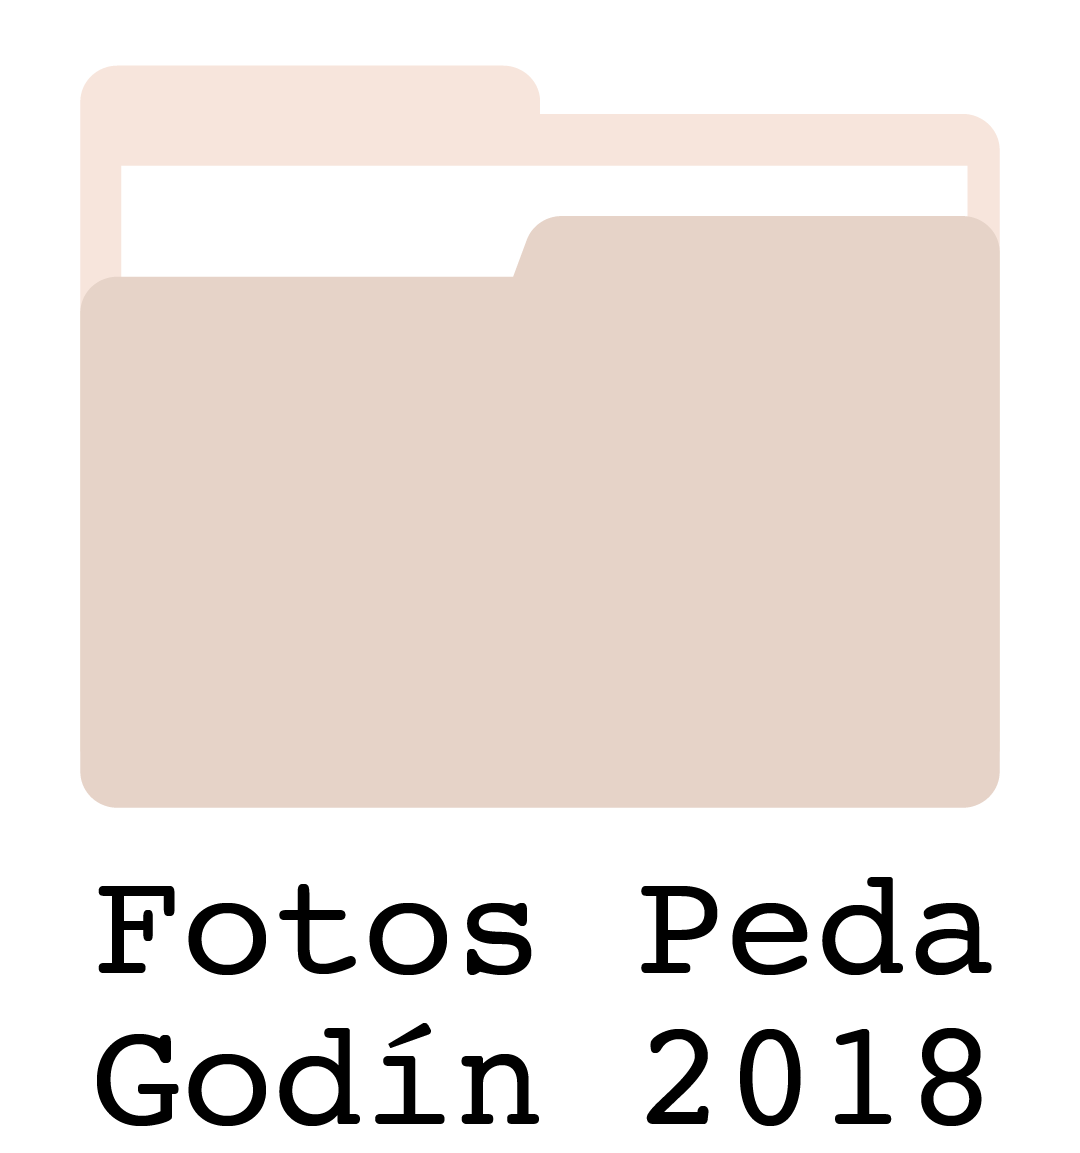
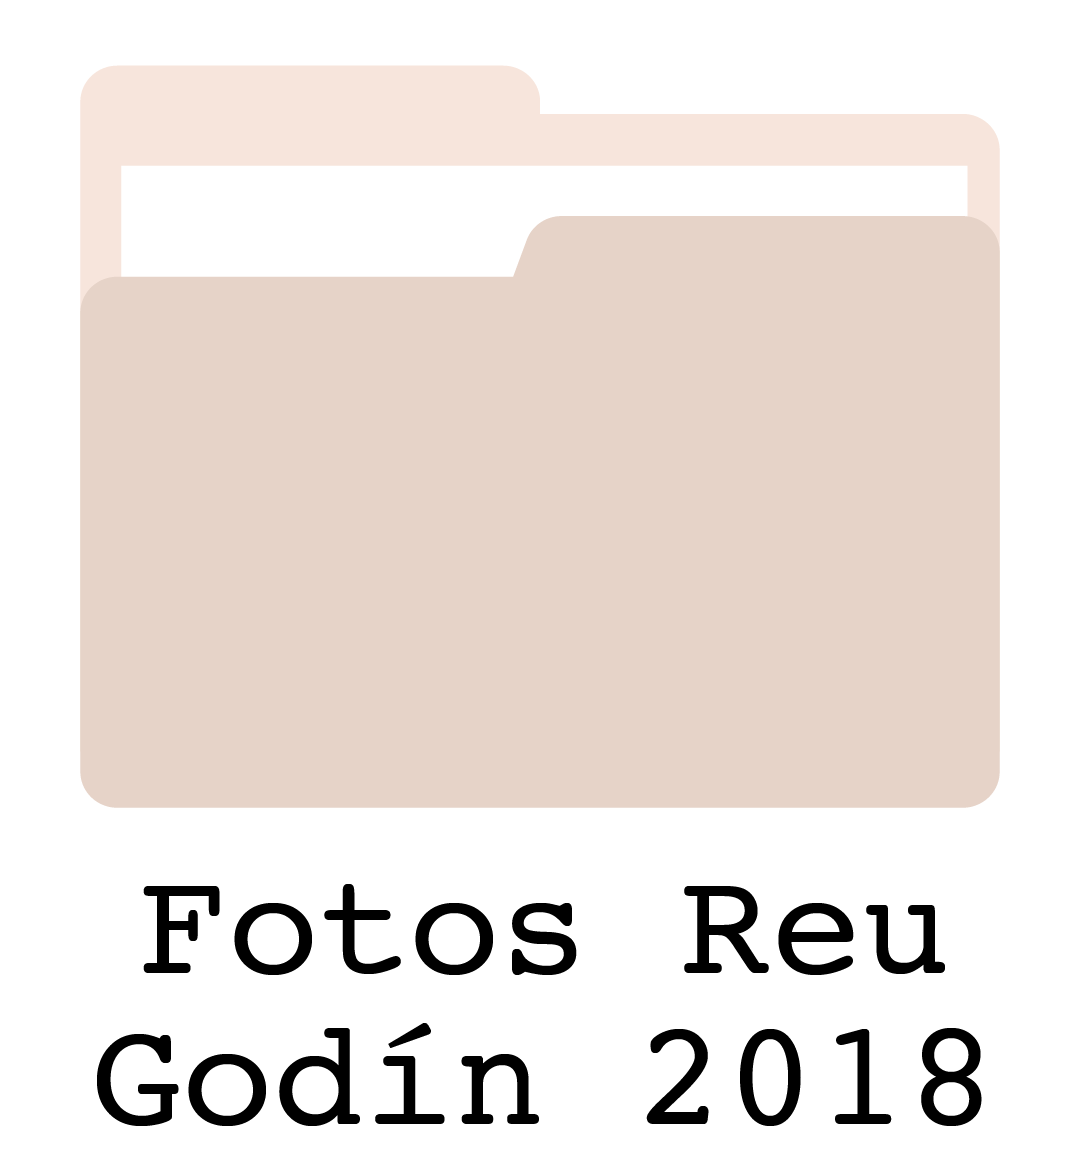
Final update before going live
Changed button in homepage, changed map image in cazadores, changed background image in snowden, changed 4th folder image due to having a somewhat vulgar name, changed and resized images in cafetera, updated correct answers in 5.js, changed last line in acertijo, added titles to every page, added imaged for round 2

Changed region(s): [[0.0917, 0.7493, 0.55, 0.843], [0.5806, 0.7493, 0.9167, 0.843]]

diff --git a/resources/css/style.css b/resources/css/style.css
@@ -44,6 +44,15 @@ body {
     width: 16vh;
 }
 
+.continue-button {
+    background-image: url("../img/continuar.png");
+    background-size: 16vh 8vh;
+    background-color: rgba(255, 255, 255, 0);
+    border: 0;
+    height: 8vh;
+    width: 16vh;
+}
+
 #small-img {
     height: 15vh;
 }
@@ -60,6 +69,14 @@ body {
 #pg1 {
     background-image: url("../img/1-bg.png");
     background-size: cover;
+}
+
+#pg2 {
+    background-image: url("../img/2-bg.png");
+    background-repeat: no-repeat;
+    background-size: contain;
+    background-position: center;
+    background-color: rgba(0,194,203,255);
 }
 
 #pg3 {
@@ -88,16 +105,8 @@ body {
 
 /* IMAGE SET WILL BE DIFFERENT FOR EACH ROUND */
 
-#pg2 {
-    background-image: url("../img/round/2-bg.png");
-    background-repeat: no-repeat;
-    background-size: contain;
-    background-position: center;
-    background-color: rgba(0,194,203,255);
-}
-
 #map-1 {
-    background-image: url("../img/round/1-map.png");
+    background-image: url("../img/round-1/1-map.png");
     background-size: 107vh 60vh;
     height: 60vh;
     width: 107vh;
@@ -107,21 +116,15 @@ body {
 }
 
 #cw-4 {
-    background-image: url("../img/round/4-cw.png");
-    background-size: 60vh 60vh;
-    height: 60vh;
-    width: 60vh;
-    /* background-size: 40vh 40vh;
-    height: 40vh;
-    width: 40vh; */
+    background-image: url("../img/round-1/4-cw.png");
+    background-size: 55vh 55vh;
+    height: 55vh;
+    width: 55vh;
 }
 
 #clues-4 {
-    background-image: url("../img/round/4-clues.png");
-    background-size: 60vh 60vh;
-    height: 60vh;
-    width: 60vh;
-    /* background-size: 40vh 40vh;
-    height: 40vh;
-    width: 40vh; */
+    background-image: url("../img/round-1/4-clues.png");
+    background-size: 55vh 55vh;
+    height: 55vh;
+    width: 55vh;
 }

diff --git a/cazadores/index.html b/cazadores/index.html
@@ -12,6 +12,7 @@
         <div class="grid-item" style="display: block; height: 0; grid-area: 1/1/span 1/span 3"></div>
         <!-- div above is unused/sized-zero but kept to avoid breaking the grid -->
         <div class="grid-item" id="white-bg" style="grid-area: 2/1/span 1/span 3">
+            <p><b>Los cazadores del paquete perdido</b></p>
             <p>Como ya se dieron cuenta, pusieron un paquete de la “Sustancia x” en el lugar equivocado,</p>
             <p>es de vital importancia que la recuperen antes de que se utilice como “vacuna” en seres</p>
             <p>humanos. La gran pregunta es ¿dónde está la información?</p>

diff --git a/index.html b/index.html
@@ -10,7 +10,7 @@
 <body id="intro">
     <div class="grid-container" style="align-content: end;">
         <div class="grid-item"><iframe width="616" height="347" src="https://www.youtube.com/embed/LBiT_BYxlVw" frameborder="0" allow="accelerometer; autoplay; clipboard-write; encrypted-media; gyroscope; picture-in-picture" allowfullscreen></iframe></div>
-        <div class="grid-item"><input class="send-button" type="button" onclick="onClick();"/></div>
+        <div class="grid-item"><input class="continue-button" type="button" onclick="onClick();"/></div>
     </div>
 </body>
 </html>

diff --git a/cafetera/index.html b/cafetera/index.html
@@ -10,6 +10,7 @@
 <body id="pg4" onload="getVal();">
     <div class="grid-container" style="grid-template-columns: auto auto;">
         <div class="grid-item" id="white-bg" style="grid-area: 1/1/span 1/span 2;">
+            <p><b>CaFeTeRa</b></p>
             <p>Si quieren pasar deberán ayudarme a ganar, perdí una apuesta con</p>
             <p>la Dra. Tántalo y periódicamente me enfrento a sus acertijos sin</p>
             <p>poderlos resolver. Dentro del problema está escondida la clave y</p>

diff --git a/ilusionistas/index.html b/ilusionistas/index.html
@@ -9,6 +9,7 @@
 </head>
 <body id="pg3" onload="getVal();">
     <div class="grid-container" style="align-content: end;">
+        <div id="white-bg"><p><b>Los Ilusionistas</b></p></div>
         <div class="grid-item">
             <span><a href="https://drive.google.com/drive/folders/1dQIA5wcmy4Aea8A8XgeRSxbCEQFMiE0s?usp=sharing" target="_blank"><img src="../resources/img/3-folder1.png" id="small-img"></a></span>
             <span class="tab"></span>

diff --git a/acertijo/index.html b/acertijo/index.html
@@ -10,7 +10,7 @@
     <div class="grid-container">
         <div class="grid-item" id="white-bg">
             <p>Nada de lo que vieron fue casualidad, una herramienta pasada les puede servir.</p>
-            <p><b>A</b>quí <b>T</b>ermina <b>E</b>l <b>J</b>uego</p>
+            <p><b>A</b>quí<b>T</b>ermina<b>E</b>l<b>J</b>uego</p>
         </div>
     </div>
 </body>

diff --git a/nemo/index.html b/nemo/index.html
@@ -10,6 +10,7 @@
 <body id="pg5" onload="getVal();">
     <div class="grid-container">
         <div class="grid-item" id="white-bg">
+            <p><b>Buscando a Nemo</b></p>
             <p>Nada de lo que verán es casualidad, todo está aquí por algo, todo se relaciona.</p>
         </div>
         <div class="grid-item">

diff --git a/snowden/index.html b/snowden/index.html
@@ -10,6 +10,7 @@
 <body id="pg2" onload="getVal();">
     <div class="grid-container">
         <div class="grid-item" id="white-bg">
+            <p><b>Snowden</b></p>
             <p>¿Sabías que la contraseña más común es “123456”?</p>
         </div>
         <div style="display: block; height: 35vh;"></div>

diff --git a/resources/js/5.js b/resources/js/5.js
@@ -1,6 +1,6 @@
 var a;
 var ans = "cozumel";
-// var ans = "bacalar";
+// var ans = "corteza";
 function getVal() {
     a = document.getElementById("n1");
 }
